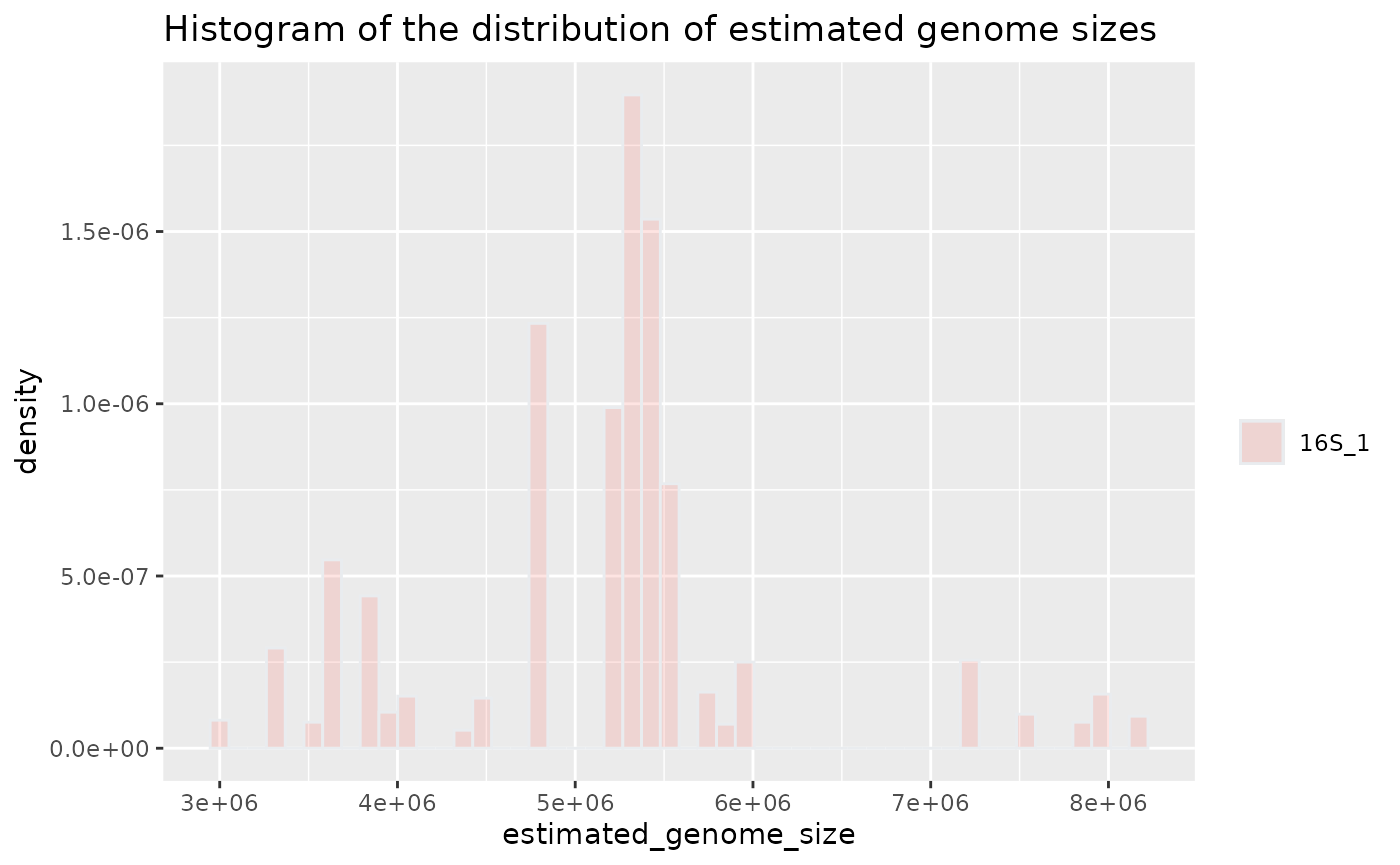
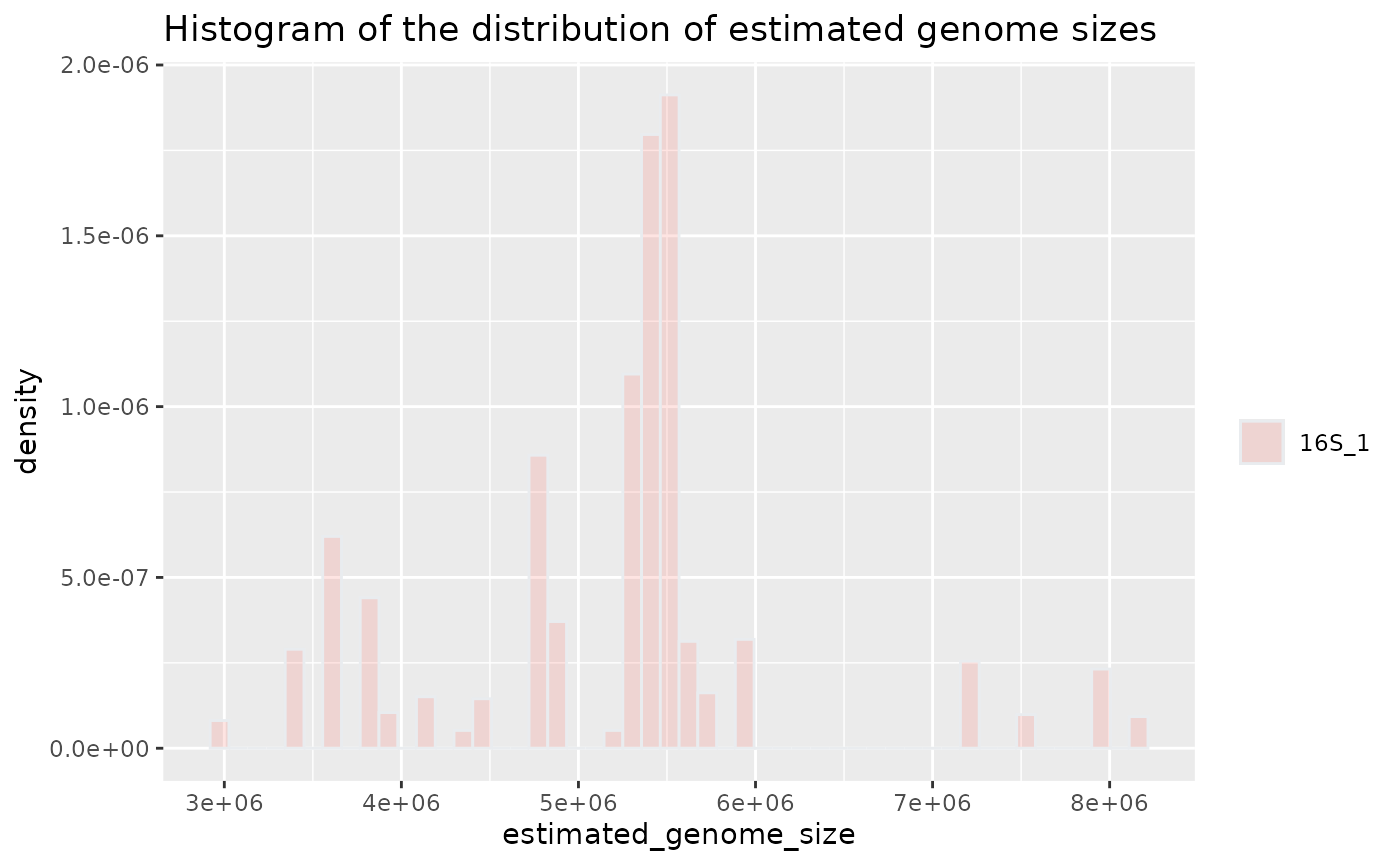
Updated the documentation for the latest version of the bayesian models

diff --git a/docs/articles/genomesizeR.html b/docs/articles/genomesizeR.html
@@ -20,7 +20,7 @@
 
     <a class="navbar-brand me-2" href="../index.html">genomesizeR</a>
 
-    <small class="nav-text text-muted me-auto" data-bs-toggle="tooltip" data-bs-placement="bottom" title="">1.0.0.0001</small>
+    <small class="nav-text text-muted me-auto" data-bs-toggle="tooltip" data-bs-placement="bottom" title="">1.0.0.0002</small>
 
 
     <button class="navbar-toggler" type="button" data-bs-toggle="collapse" data-bs-target="#navbar" aria-controls="navbar" aria-expanded="false" aria-label="Toggle navigation">
@@ -80,7 +80,7 @@ the <code>inborutils</code> package. You can change the
 <span><span class="fu">inborutils</span><span class="fu">::</span><span class="fu">download_zenodo</span><span class="op">(</span><span class="st">"10.5281/zenodo.13733183"</span>, path<span class="op">=</span><span class="st">"."</span><span class="op">)</span></span></code></pre>
 <p>Store the path to the archive containing the reference databases and
 the bayesian models:</p>
-<pre><code><span><span class="va">refdata_archive_path</span> <span class="op">=</span> <span class="st">"path/to/genomesizeRdata.tar.gz"</span></span></code></pre>
+<pre><code><span><span class="va">refdata_archive_path</span> <span class="op">=</span> <span class="st">"path/to/genomesizeRdata_v1.0.3.tar.gz"</span></span></code></pre>
 <p>Read the example input file from the package. This example data is a
 subset of the dataset from <a href="https://doi.org/10.1038/s41467-023-37937-4" class="external-link">Labouyrie et
 al. 2023</a>:</p>
@@ -89,21 +89,21 @@ al. 2023</a>:</p>
 <pre><code><span><span class="kw"><a href="https://rdrr.io/r/base/library.html" class="external-link">library</a></span><span class="op">(</span><span class="va"><a href="https://scionresearch.github.io/genomesizeR/">genomesizeR</a></span><span class="op">)</span></span></code></pre>
 <p>Run the main function to get the estimated genome sizes (with the
 default method which is the bayesian method):</p>
-<pre><code>  results = estimate_genome_size(example_input_file, refdata_archive_path, 
-            sep='\t', match_column='TAXID', output_format='input', 
-            ci_threshold = 0.3)
+<pre><code>results = estimate_genome_size(example_input_file, refdata_archive_path, 
+                               sep='\t', match_column='TAXID', output_format='input', 
+                               ci_threshold = 0.5)
   
   #############################################################################
   # Genome size estimation summary:
   #
-  #  22.22222 % estimations achieving required precision
+  #  50.55556 % estimations achieving required precision
   #
        Min.   1st Qu.    Median      Mean   3rd Qu.      Max. 
-    3007721   5408472  16980834  23969767  41811396 143278734 
+    2973116   5404298  17307947  23865759  41709153 140613929 
   
   # Estimation status:
-  Confidence interval to estimated size ratio &gt; ci_threshold      OK 
-                                                         140      40 </code></pre>
+  Confidence interval to estimated size ratio &gt; ci_threshold   OK 
+                                                          89   91</code></pre>
 </div>
 <div class="section level4">
 <h4 id="plot-genome-size-histogram-per-sample">Plot genome size histogram per sample<a class="anchor" aria-label="anchor" href="#plot-genome-size-histogram-per-sample"></a>
@@ -147,9 +147,9 @@ bacteria (16S marker) and fungi (ITS marker) is visible.</p>
 <div class="sourceCode" id="cb10"><pre class="downlit sourceCode r">
 <code class="sourceCode R"><span>  <span class="va">plotted_df</span> <span class="op">=</span> <span class="fu"><a href="../reference/plot_genome_size_tree.html">plot_genome_size_tree</a></span><span class="op">(</span><span class="va">results</span>, <span class="va">refdata_archive_path</span><span class="op">)</span></span></code></pre></div>
 <pre><code><span><span class="co">## Untarring reference data</span></span>
-<span><span class="co">## Using reference data in: /tmp/RtmpBl7nwv/refdata</span></span>
+<span><span class="co">## Using reference data in: /tmp/RtmprFLw9Z/refdata</span></span>
 <span><span class="co">## Untarring taxonomy</span></span>
-<span><span class="co">## Using taxonomy: /tmp/RtmpBl7nwv/taxdump</span></span></code></pre>
+<span><span class="co">## Using taxonomy: /tmp/RtmprFLw9Z/taxdump</span></span></code></pre>
 <p><img src="genomesizeR_files/figure-html/unnamed-chunk-6-1.png" width="2112"></p>
 </div>
   </main><aside class="col-md-3"><nav id="toc" aria-label="Table of contents"><h2>On this page</h2>

diff --git a/docs/reference/estimate_genome_size.html b/docs/reference/estimate_genome_size.html
@@ -9,7 +9,7 @@ reference databases and bayesian models, and predicts genome sizes."></head><bod
 
     <a class="navbar-brand me-2" href="../index.html">genomesizeR</a>
 
-    <small class="nav-text text-muted me-auto" data-bs-toggle="tooltip" data-bs-placement="bottom" title="">1.0.0.0001</small>
+    <small class="nav-text text-muted me-auto" data-bs-toggle="tooltip" data-bs-placement="bottom" title="">1.0.0.0002</small>
 
 
     <button class="navbar-toggler" type="button" data-bs-toggle="collapse" data-bs-target="#navbar" aria-controls="navbar" aria-expanded="false" aria-label="Toggle navigation">

diff --git a/docs/404.html b/docs/404.html
@@ -20,7 +20,7 @@
 
     <a class="navbar-brand me-2" href="https://scionresearch.github.io/genomesizeR/index.html">genomesizeR</a>
 
-    <small class="nav-text text-muted me-auto" data-bs-toggle="tooltip" data-bs-placement="bottom" title="">1.0.0.0001</small>
+    <small class="nav-text text-muted me-auto" data-bs-toggle="tooltip" data-bs-placement="bottom" title="">1.0.0.0002</small>
 
 
     <button class="navbar-toggler" type="button" data-bs-toggle="collapse" data-bs-target="#navbar" aria-controls="navbar" aria-expanded="false" aria-label="Toggle navigation">

diff --git a/docs/articles/compare_methods.html b/docs/articles/compare_methods.html
@@ -20,7 +20,7 @@
 
     <a class="navbar-brand me-2" href="../index.html">genomesizeR</a>
 
-    <small class="nav-text text-muted me-auto" data-bs-toggle="tooltip" data-bs-placement="bottom" title="">1.0.0.0001</small>
+    <small class="nav-text text-muted me-auto" data-bs-toggle="tooltip" data-bs-placement="bottom" title="">1.0.0.0002</small>
 
 
     <button class="navbar-toggler" type="button" data-bs-toggle="collapse" data-bs-target="#navbar" aria-controls="navbar" aria-expanded="false" aria-label="Toggle navigation">

diff --git a/docs/articles/input_output.html b/docs/articles/input_output.html
@@ -20,7 +20,7 @@
 
     <a class="navbar-brand me-2" href="../index.html">genomesizeR</a>
 
-    <small class="nav-text text-muted me-auto" data-bs-toggle="tooltip" data-bs-placement="bottom" title="">1.0.0.0001</small>
+    <small class="nav-text text-muted me-auto" data-bs-toggle="tooltip" data-bs-placement="bottom" title="">1.0.0.0002</small>
 
 
     <button class="navbar-toggler" type="button" data-bs-toggle="collapse" data-bs-target="#navbar" aria-controls="navbar" aria-expanded="false" aria-label="Toggle navigation">

diff --git a/docs/articles/methods.html b/docs/articles/methods.html
@@ -20,7 +20,7 @@
 
     <a class="navbar-brand me-2" href="../index.html">genomesizeR</a>
 
-    <small class="nav-text text-muted me-auto" data-bs-toggle="tooltip" data-bs-placement="bottom" title="">1.0.0.0001</small>
+    <small class="nav-text text-muted me-auto" data-bs-toggle="tooltip" data-bs-placement="bottom" title="">1.0.0.0002</small>
 
 
     <button class="navbar-toggler" type="button" data-bs-toggle="collapse" data-bs-target="#navbar" aria-controls="navbar" aria-expanded="false" aria-label="Toggle navigation">

diff --git a/docs/articles/index.html b/docs/articles/index.html
@@ -7,7 +7,7 @@
 
     <a class="navbar-brand me-2" href="../index.html">genomesizeR</a>
 
-    <small class="nav-text text-muted me-auto" data-bs-toggle="tooltip" data-bs-placement="bottom" title="">1.0.0.0001</small>
+    <small class="nav-text text-muted me-auto" data-bs-toggle="tooltip" data-bs-placement="bottom" title="">1.0.0.0002</small>
 
 
     <button class="navbar-toggler" type="button" data-bs-toggle="collapse" data-bs-target="#navbar" aria-controls="navbar" aria-expanded="false" aria-label="Toggle navigation">

diff --git a/docs/reference/build_lmm_model.html b/docs/reference/build_lmm_model.html
@@ -7,7 +7,7 @@
 
     <a class="navbar-brand me-2" href="../index.html">genomesizeR</a>
 
-    <small class="nav-text text-muted me-auto" data-bs-toggle="tooltip" data-bs-placement="bottom" title="">1.0.0.0001</small>
+    <small class="nav-text text-muted me-auto" data-bs-toggle="tooltip" data-bs-placement="bottom" title="">1.0.0.0002</small>
 
 
     <button class="navbar-toggler" type="button" data-bs-toggle="collapse" data-bs-target="#navbar" aria-controls="navbar" aria-expanded="false" aria-label="Toggle navigation">

diff --git a/docs/reference/get_bayes_model.html b/docs/reference/get_bayes_model.html
@@ -7,7 +7,7 @@
 
     <a class="navbar-brand me-2" href="../index.html">genomesizeR</a>
 
-    <small class="nav-text text-muted me-auto" data-bs-toggle="tooltip" data-bs-placement="bottom" title="">1.0.0.0001</small>
+    <small class="nav-text text-muted me-auto" data-bs-toggle="tooltip" data-bs-placement="bottom" title="">1.0.0.0002</small>
 
 
     <button class="navbar-toggler" type="button" data-bs-toggle="collapse" data-bs-target="#navbar" aria-controls="navbar" aria-expanded="false" aria-label="Toggle navigation">

diff --git a/docs/reference/get_genome_size_db.html b/docs/reference/get_genome_size_db.html
@@ -7,7 +7,7 @@
 
     <a class="navbar-brand me-2" href="../index.html">genomesizeR</a>
 
-    <small class="nav-text text-muted me-auto" data-bs-toggle="tooltip" data-bs-placement="bottom" title="">1.0.0.0001</small>
+    <small class="nav-text text-muted me-auto" data-bs-toggle="tooltip" data-bs-placement="bottom" title="">1.0.0.0002</small>
 
 
     <button class="navbar-toggler" type="button" data-bs-toggle="collapse" data-bs-target="#navbar" aria-controls="navbar" aria-expanded="false" aria-label="Toggle navigation">

diff --git a/docs/reference/get_genome_size_db_for_lmm.html b/docs/reference/get_genome_size_db_for_lmm.html
@@ -7,7 +7,7 @@
 
     <a class="navbar-brand me-2" href="../index.html">genomesizeR</a>
 
-    <small class="nav-text text-muted me-auto" data-bs-toggle="tooltip" data-bs-placement="bottom" title="">1.0.0.0001</small>
+    <small class="nav-text text-muted me-auto" data-bs-toggle="tooltip" data-bs-placement="bottom" title="">1.0.0.0002</small>
 
 
     <button class="navbar-toggler" type="button" data-bs-toggle="collapse" data-bs-target="#navbar" aria-controls="navbar" aria-expanded="false" aria-label="Toggle navigation">

diff --git a/docs/reference/get_refdata.html b/docs/reference/get_refdata.html
@@ -7,7 +7,7 @@
 
     <a class="navbar-brand me-2" href="../index.html">genomesizeR</a>
 
-    <small class="nav-text text-muted me-auto" data-bs-toggle="tooltip" data-bs-placement="bottom" title="">1.0.0.0001</small>
+    <small class="nav-text text-muted me-auto" data-bs-toggle="tooltip" data-bs-placement="bottom" title="">1.0.0.0002</small>
 
 
     <button class="navbar-toggler" type="button" data-bs-toggle="collapse" data-bs-target="#navbar" aria-controls="navbar" aria-expanded="false" aria-label="Toggle navigation">
